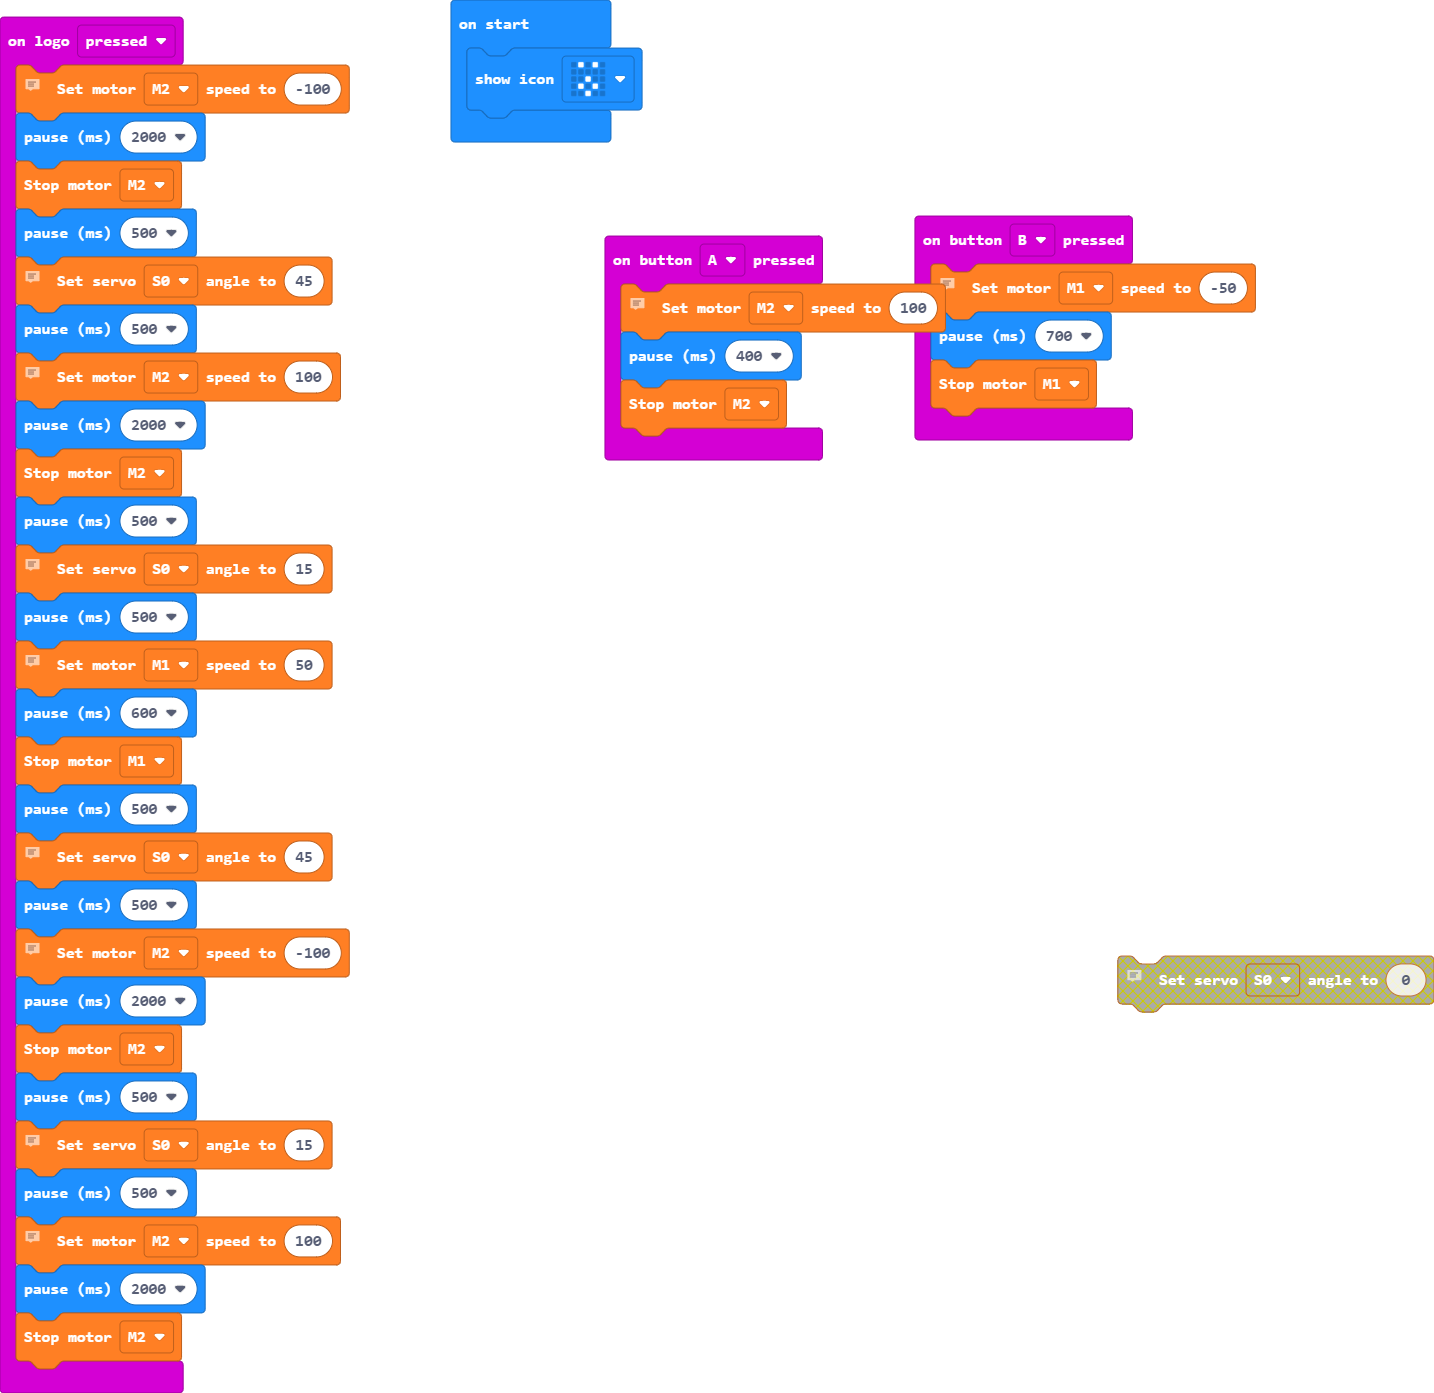
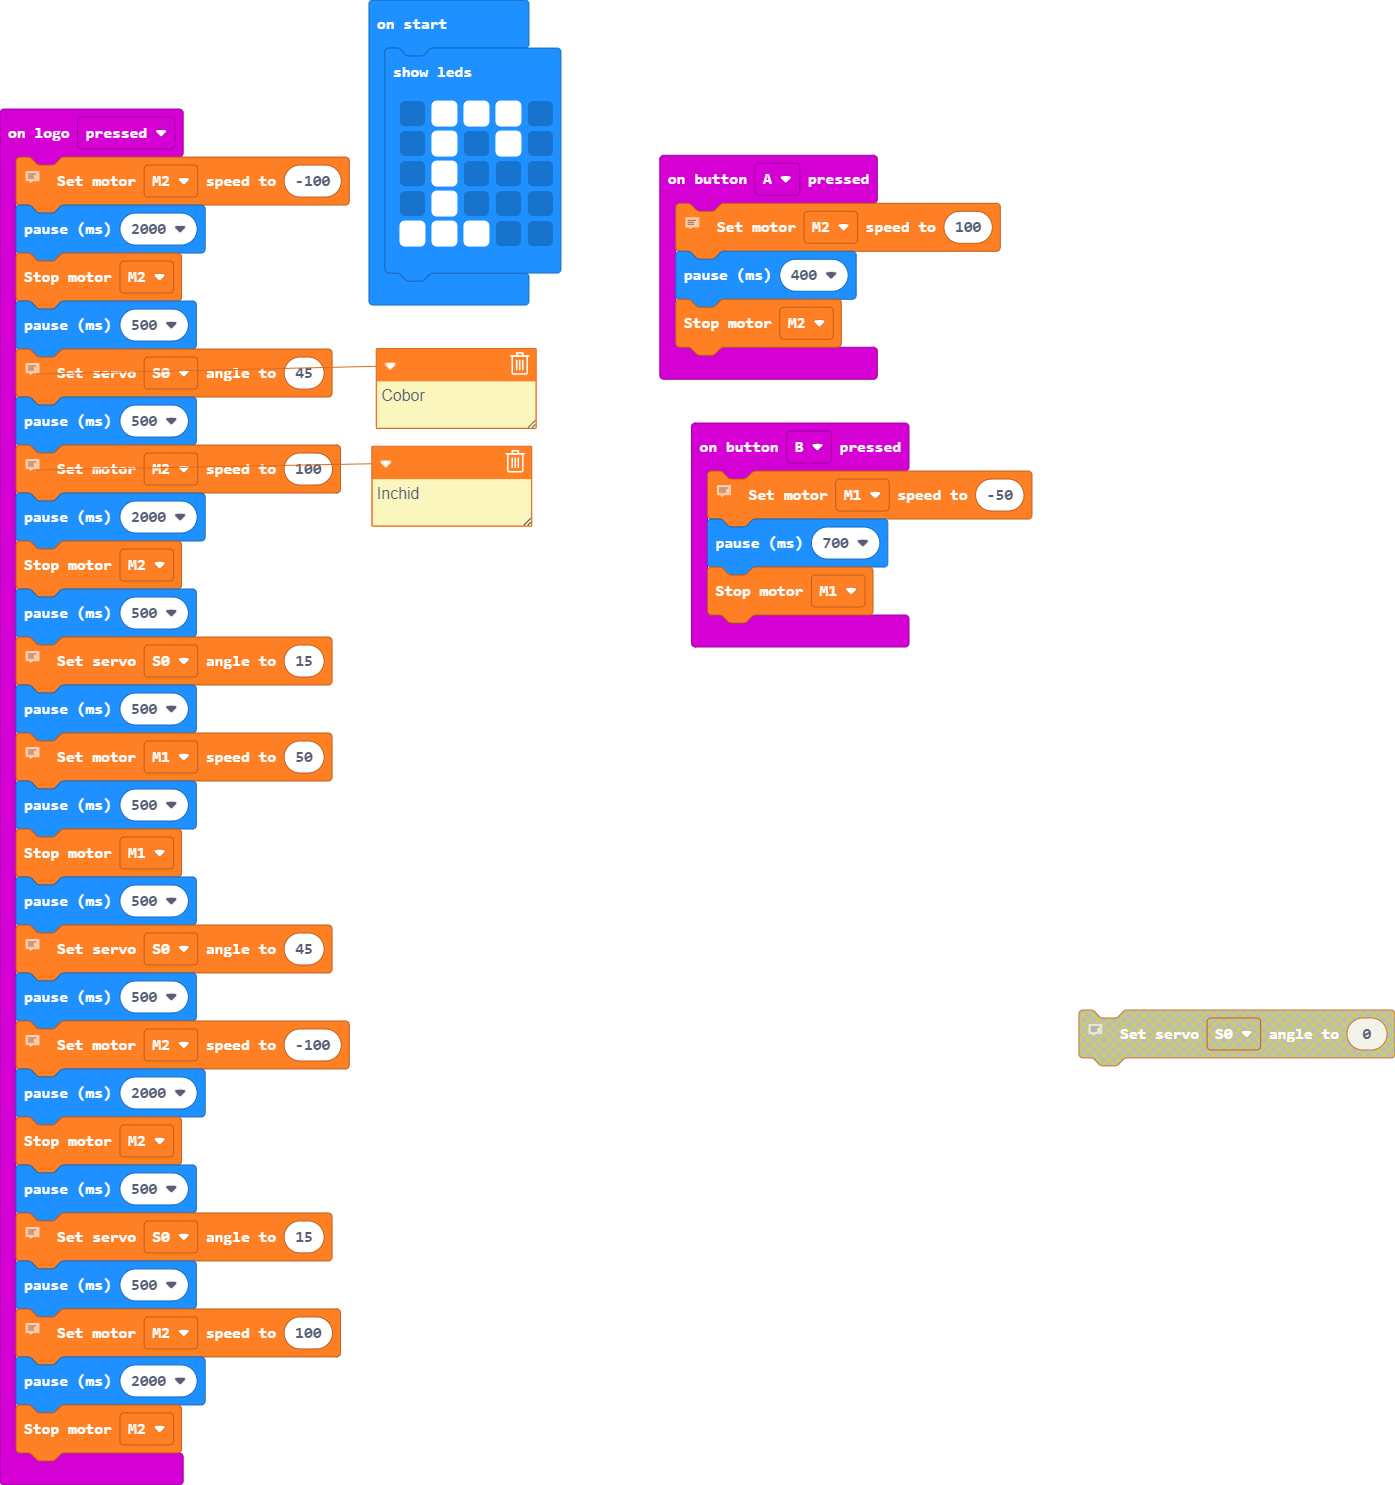
Update main.blocks, main.ts

Changed region(s): [[0.0, 0.0, 0.8939, 1.0], [0.7706, 0.6791, 1.0, 0.7408]]

diff --git a/main.ts b/main.ts
@@ -29,7 +29,7 @@ input.onLogoEvent(TouchButtonEvent.Pressed, function () {
     basic.pause(500)
     // Invart
     wuKong.setMotorSpeed(wuKong.MotorList.M1, 50)
-    basic.pause(600)
+    basic.pause(500)
     wuKong.stopMotor(wuKong.MotorList.M1)
     basic.pause(500)
     // Cobor
@@ -48,4 +48,10 @@ input.onLogoEvent(TouchButtonEvent.Pressed, function () {
     basic.pause(2000)
     wuKong.stopMotor(wuKong.MotorList.M2)
 })
-basic.showIcon(IconNames.Surprised)
+basic.showLeds(`
+    . # # # .
+    . # . # .
+    . # . . .
+    . # . . .
+    # # # . .
+    `)
